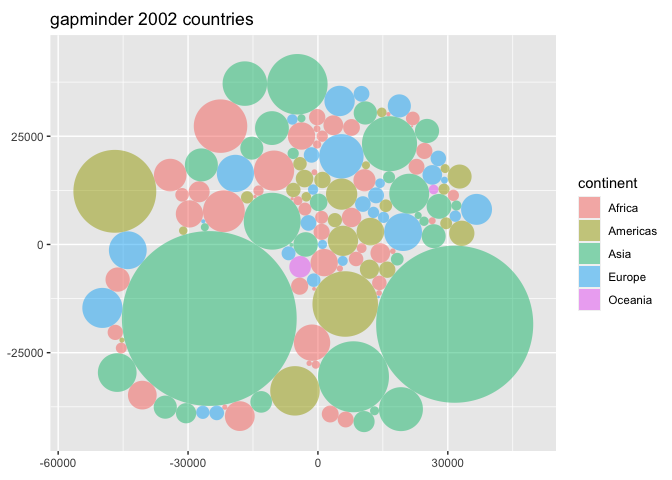
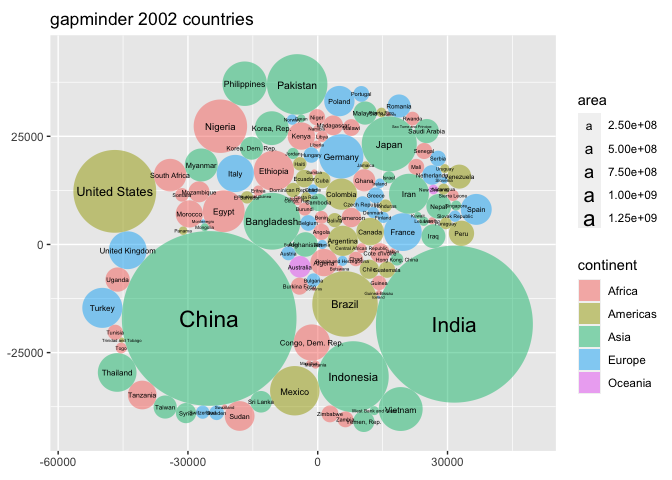
include sf and spatial polygon experiments

diff --git a/README.md b/README.md
@@ -7,7 +7,8 @@
 
 <!-- badges: end -->
 
-Critical moment in my extension journey started with TLP.
+Critical moment in my extension journey started with TLP “extend your
+ability to extend”.
 
 Message 1: you can be an extender
 
@@ -32,17 +33,27 @@ Today I’ll present on ggcirclepack.
 Background: ggplot2 grammar guide walk through (reference from data to
 viz gallery)
 
+``` r
+knitr::include_url("https://evamaerey.github.io/ggplot2_grammar_guide/geoms_single_series.html#77")
+```
+
+<iframe src="https://evamaerey.github.io/ggplot2_grammar_guide/geoms_single_series.html#77" width="100%" height="400px" data-external="1">
+
+</iframe>
+
 –
 
 This didn’t feel like powerful ggplot2 experience
 
 –
 
-But what if it could?
+What would ggcirclepack look like?
 
 -----
 
-Here, the id of the circle isn’t defined by the center, but by it’s id…
+Here, the id of the circle isn’t defined by the center, x0y0, but by its
+id and area (an algorithm used under the hood to find x0y0 and x and y
+for perimeter)
 
 –
 
@@ -69,14 +80,6 @@ library(ggcirclepack)
 library(ggplot2)
 library(magrittr)
 library(dplyr)
-#> 
-#> Attaching package: 'dplyr'
-#> The following objects are masked from 'package:stats':
-#> 
-#>     filter, lag
-#> The following objects are masked from 'package:base':
-#> 
-#>     intersect, setdiff, setequal, union
 
 gapminder::gapminder %>%
 filter(year == 2002) %>%
@@ -102,7 +105,8 @@ last_plot() +
 ``` r
 
 last_plot() +
-  aes(area = pop)
+  aes(area = pop) + 
+  geom_text_circlepack()
 #> Joining with `by = join_by(id)`
 ```
 
@@ -111,8 +115,7 @@ last_plot() +
 ``` r
 
 last_plot() +
-  facet_wrap(facets = vars(continent)) + 
-  geom_text_circlepack()
+  facet_wrap(facets = vars(continent))
 #> Joining with `by = join_by(id)`
 #> Joining with `by = join_by(id)`
 #> Joining with `by = join_by(id)`
@@ -123,7 +126,6 @@ last_plot() +
 <img src="man/figures/README-example-4.png" width="100%" />
 
 ``` r
-
 
 last_plot() + 
   scale_size_continuous(range = c(0, 4)) + 
@@ -195,7 +197,7 @@ tidytitanic::tidy_titanic %>%
 
 -----
 
-Include other circlepacking algorithms.
+Other wish list item.. Include other circlepacking algorithms.
 
 –
 
@@ -219,4 +221,67 @@ aes(brain\_segment = ?)
 
 aes(tissue = ?)
 
-–
+-----
+
+# U.S. States
+
+  - inheriting from geom\_polygon
+  - ‘computing’ state xy perimeter based aes = my\_state\_var
+  - Ryan Miller tutorial start point.
+
+<!-- end list -->
+
+``` r
+knitr::include_url("https://evamaerey.github.io/mytidytuesday/2022-11-04-brain/brain.html")
+```
+
+<iframe src="https://evamaerey.github.io/mytidytuesday/2022-11-04-brain/brain.html" width="100%" height="400px" data-external="1">
+
+</iframe>
+
+-----
+
+``` r
+knitr::include_url("https://evamaerey.github.io/mytidytuesday/2023-03-06-us-states/us_states.html")
+```
+
+<iframe src="https://evamaerey.github.io/mytidytuesday/2023-03-06-us-states/us_states.html" width="100%" height="400px" data-external="1">
+
+</iframe>
+
+-----
+
+# U.S. counties
+
+  - inheriting from geom\_sf()
+  - ‘computing’ fips sf geometries column (xy perimeters) based on aes =
+    my\_fips\_code
+  - Wilke example start point
+
+<!-- end list -->
+
+``` r
+knitr::include_url("https://evamaerey.github.io/mytidytuesday/2023-03-10-ggfips/ggfips_w_sf.html")
+```
+
+<iframe src="https://evamaerey.github.io/mytidytuesday/2023-03-10-ggfips/ggfips_w_sf.html" width="100%" height="400px" data-external="1">
+
+</iframe>
+
+-----
+
+# Brain seg
+
+  - inheriting from geom\_sf()
+  - ‘computing’ tissue space based on aes = my\_seg\_name variable
+  - atlases from ggseg
+
+<!-- end list -->
+
+``` r
+knitr::include_url("https://evamaerey.github.io/mytidytuesday/2023-03-12-ggbrain-seg-sf/ggbrain_seg_sf.html")
+```
+
+<iframe src="https://evamaerey.github.io/mytidytuesday/2023-03-12-ggbrain-seg-sf/ggbrain_seg_sf.html" width="100%" height="400px" data-external="1">
+
+</iframe>
